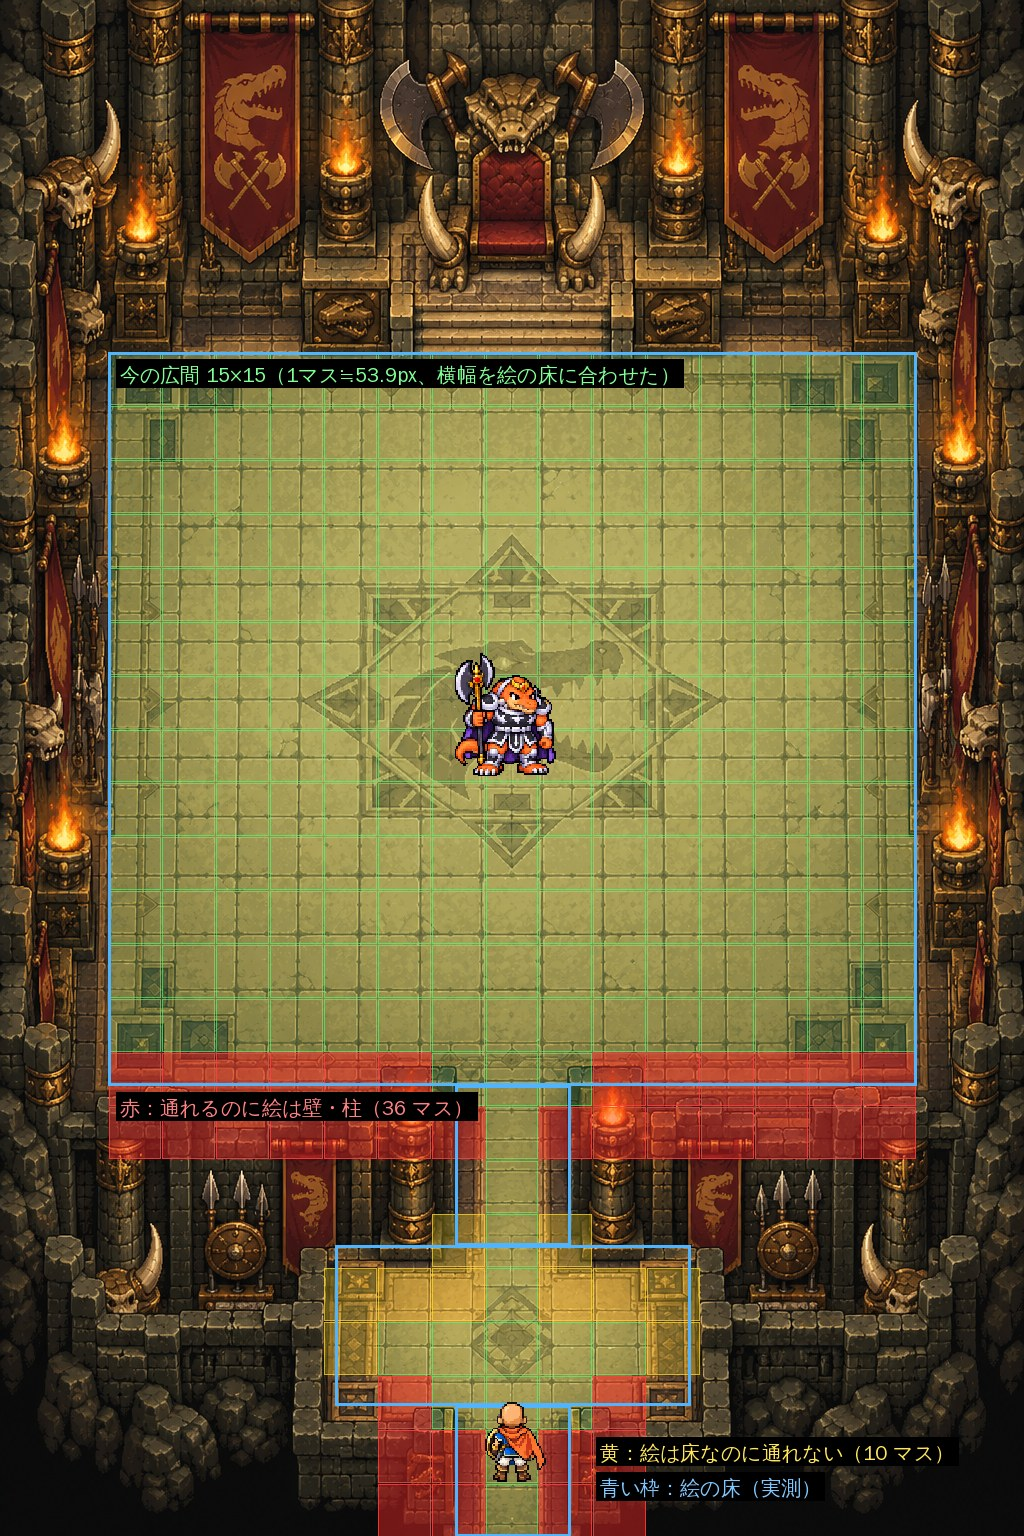
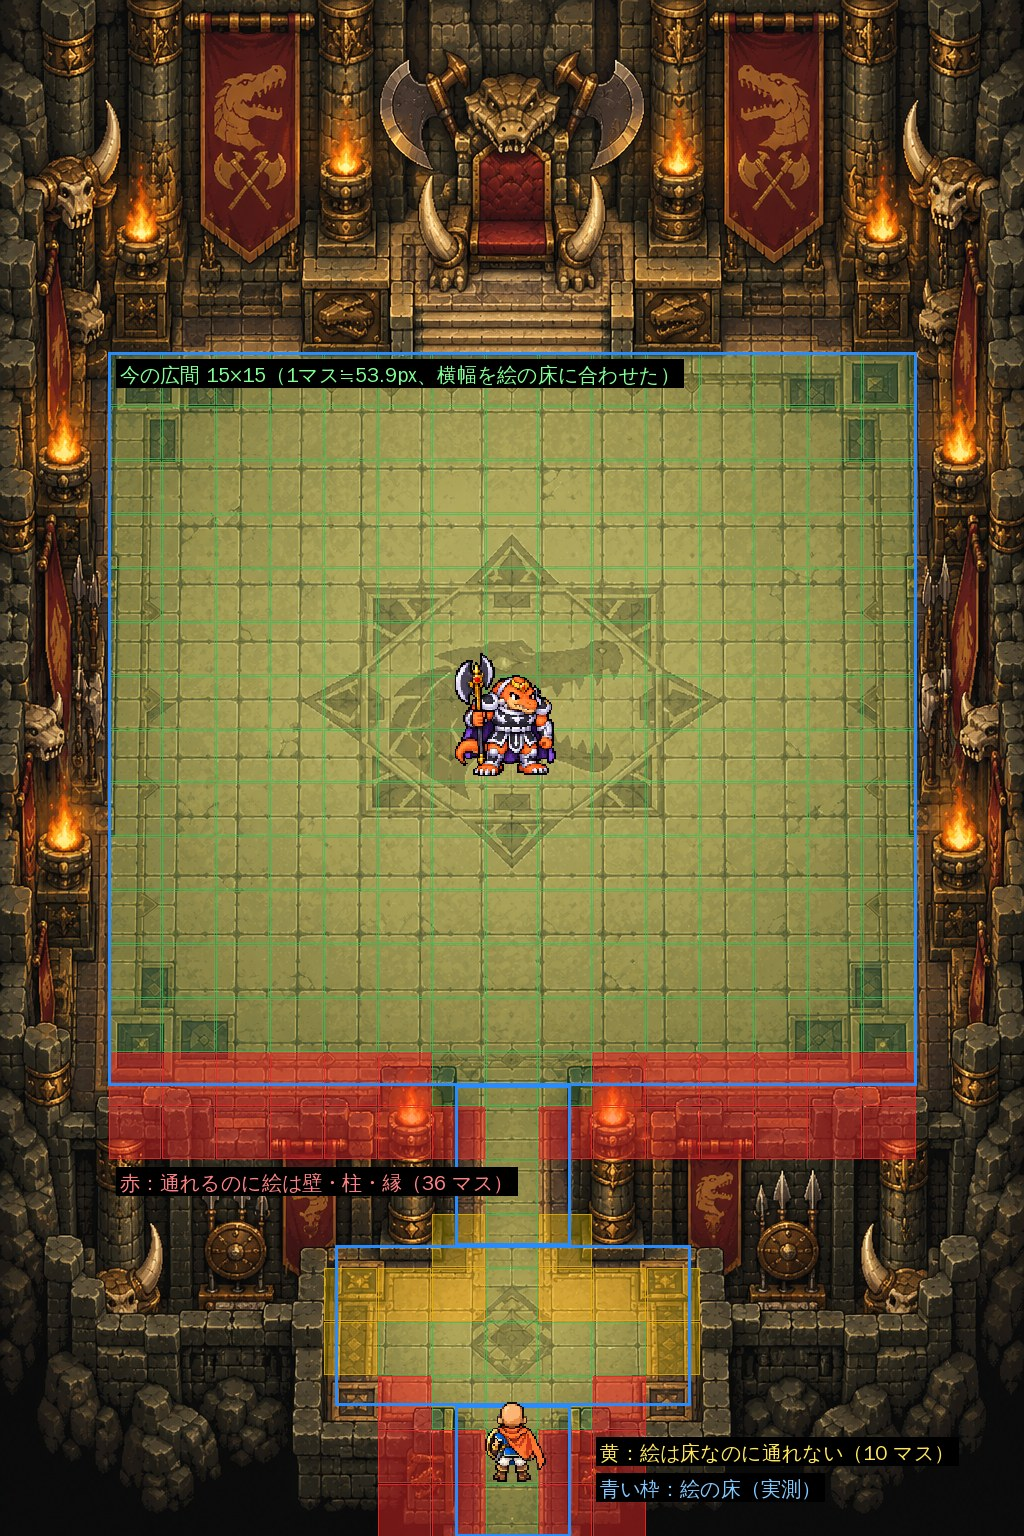
True Vearn room v1: overlay check (not integrated); keep white void after defeat
- tools/boss-room-fit.py (shared fit check for croc and truevearn rooms)
  replaces the crocodine-only tools; target dimensions for ChatGPT
- Boss room look is stored on the map (map.theme, G.themeOf) so the 33F
  white void no longer turns into the castle look right after the defeat
- Gold return circle gets a subtle dark-gold underlay on the white floor
- tools/truevearn-white-check.js, docs/TRUEVEARN_ROOM_V1.md

Claude-Session: https://claude.ai/code/session_01HDLigwwegm7F2trSGLBQuS

diff --git a/tools/truevearn-white-check.js b/tools/truevearn-white-check.js
@@ -1,0 +1,52 @@
+// 33階・真大魔王バーンの白い異空間：白い床の上で、攻撃の予告・たけとボス・撃破後の金の帰還魔法陣が見えるかの確認（PCのブラウザ、幅360・390・430）
+//   node tools/truevearn-white-check.js [出力フォルダ]（既定 docs/truevearn-room-v1/）。覚醒ムービーは見た扱い（着くと、下の入口の列で広間の下の端から3マス上）
+const { chromium } = (() => { try { return require('playwright'); } catch (e) { return require('/opt/node22/lib/node_modules/playwright'); } })();
+const http = require('http'), fs = require('fs'), path = require('path');
+const ROOT = path.join(__dirname, '..'), OUT = process.argv[2] || path.join(ROOT, 'docs', 'truevearn-room-v1');
+fs.mkdirSync(OUT, { recursive: true });
+const PORT = 8837;
+const srv = http.createServer((q, r) => { let f = path.join(ROOT, decodeURIComponent(q.url.split('?')[0])); if (f.endsWith('/')) f += 'index.html';
+  fs.readFile(f, (e, d) => { if (e) { r.writeHead(404); r.end(); return; } r.writeHead(200, { 'Content-Type': { '.html': 'text/html', '.js': 'text/javascript', '.css': 'text/css', '.png': 'image/png', '.webp': 'image/webp', '.jpg': 'image/jpeg' }[path.extname(f)] || 'application/octet-stream' }); r.end(d); }); }).listen(PORT);
+let ok = 0, ng = 0; const chk = (c, m) => { if (c) ok++; else ng++; console.log(c ? 'OK' : 'NG', m); };
+const closeAll = (p) => p.evaluate(() => { while (TS.UI.modals.length) TS.UI.modals[TS.UI.modals.length - 1].close(); TS.UI.lockUntil = 0; });
+(async () => {
+  const b = await chromium.launch();
+  for (const [W, H] of [[360, 780], [390, 844], [430, 932]]) {
+    const ctx = await b.newContext({ viewport: { width: W, height: H }, isMobile: true, hasTouch: true, deviceScaleFactor: 2 });
+    const p = await ctx.newPage(); const errs = []; p.on('pageerror', (e) => errs.push(e.message));
+    await p.route('**/*.mp4', (route) => route.fulfill({ status: 404, body: '' }));
+    await p.goto(`http://localhost:${PORT}/`); await p.waitForTimeout(400);
+    await p.evaluate(() => { localStorage.clear(); const G = TS.Game, S = G.newState(), V = S.village, st = V.story; st.introDone = true; V.seenIntro = true; st.chapter = 6;
+      for (const k of ['croc', 'flame', 'kill', 'baran', 'mist', 'vearn']) st.defeated[k] = true;
+      st.introSeen = { truevearn: true, truevearnAwaken: true };
+      G.depart(S, 6161); const r = S.run; r.final.skip.vearn = true;
+      while (r.floor < 33) { const t = r.stairs || r.crack; r.enemies = r.enemies.filter((e) => e.boss); r.player.x = t.x; r.player.y = t.y; G.act(S, { type: 'descend' }); }
+      r.player.hp = r.player.maxhp = 9999; r.player.lvl = 30; TS.Save.save(S); });
+    await p.reload(); await p.waitForTimeout(700); await p.tap('#btn-continue'); await p.waitForTimeout(900); await closeAll(p);
+    const a = await p.evaluate(() => { const r = TS.UI.S.run, A = r.bossFight; return { floor: r.floor, theme: TS.Game.F(r).theme, p: [r.player.x, r.player.y], A }; });
+    chk(a.floor === 33 && a.theme === 'void' && a.p[1] === a.A.y + a.A.h - 4 && a.p[0] === a.A.x + (a.A.w >> 1), `${W} 33階の白い異空間に着くと、広間の下の端から3マス上（下の入口の列） ${JSON.stringify(a)}`);
+    await p.screenshot({ path: path.join(OUT, `white-arrive_${W}.jpg`), quality: 85 });
+    // 戦闘中：ボスの前で、3×3の予告（見た目だけ。ターンは進めない）
+    await p.evaluate(() => { const r = TS.UI.S.run, A = r.bossFight, bo = r.enemies.find((e) => e.boss); A.engaged = true; A.intro = 'done';
+      bo.x = A.x + 7; bo.y = A.y + 6; bo.hold = 99; r.player.x = A.x + 7; r.player.y = A.y + 10; r.player.dir = 'up';
+      bo.charge = { tiles: [], kind: null }; for (let dy = -1; dy <= 1; dy++) for (let dx = -1; dx <= 1; dx++) bo.charge.tiles.push({ x: bo.x + dx, y: bo.y + 2 + dy });
+      TS.Game.updateVision(r); });
+    await p.waitForTimeout(600);
+    await p.screenshot({ path: path.join(OUT, `white-battle_${W}.jpg`), quality: 85 });
+    // 撃破：帰還口（金の魔法陣）
+    await p.evaluate(() => { const r = TS.UI.S.run, bo = r.enemies.find((e) => e.boss); bo.charge = null; bo.hp = 1; bo.hold = 0; bo.sleep = 50; r.player.x = bo.x; r.player.y = bo.y + 1; TS.Game.updateVision(r); });
+    for (let i = 0; i < 15 && await p.evaluate(() => TS.UI.S.run.enemies.some((e) => e.boss)); i++) { await p.evaluate(() => { while (TS.UI.modals.length) TS.UI.modals[TS.UI.modals.length - 1].close(); TS.UI.lockUntil = 0; TS.UI.doAct({ type: 'move', dir: 'up' }); }); await p.waitForTimeout(200); }
+    for (let i = 0; i < 40 && !(await p.evaluate(() => !!TS.UI.S.run.portal)); i++) { await p.waitForTimeout(150); await closeAll(p); }
+    for (let i = 0; i < 8; i++) { await p.waitForTimeout(150); await closeAll(p); }   // 撃破の会話
+    const th = await p.evaluate(() => TS.Game.themeOf(TS.UI.S.run));
+    chk(th === 'void', `${W} 倒したあとも白い異空間のまま（${th}）`);
+    const P = await p.evaluate(() => { const r = TS.UI.S.run, P = r.portal; if (P) { r.player.x = P.x - 1; r.player.y = P.y + 1; TS.Game.updateVision(r); } return P && TS.Game.inArena(r, P.x, P.y); });
+    await p.waitForTimeout(1200);
+    chk(P, `${W} 撃破後：帰還口は広間の床`);
+    await p.screenshot({ path: path.join(OUT, `white-portal_${W}.jpg`), quality: 85 });
+    chk(!errs.length, `${W} エラーなし ${errs.join(' / ')}`);
+    await ctx.close();
+  }
+  console.log(`\n${ok} OK / ${ng} NG`);
+  await b.close(); srv.close(); process.exit(ng ? 1 : 0);
+})();

diff --git a/js/render.js b/js/render.js
@@ -27,7 +27,15 @@
     if (img) {
       const h = w * img.height / img.width;
       g.imageSmoothingEnabled = true; g.imageSmoothingQuality = 'high';
+      // 白い床（33階・白い異空間）：魔法陣が床の金の模様にまぎれないよう、控えめな暗い金の下敷きの影と、少し濃い色で描く（形は変えない）
+      const white = G.themeOf(run) === 'void';
+      if (white) {
+        g.globalAlpha = 0.5 * ap; g.fillStyle = 'rgba(90,60,10,0.45)';
+        g.beginPath(); g.ellipse(cx, cy + h * 0.04, w * 0.5, h * 0.52, 0, 0, Math.PI * 2); g.fill();
+        g.filter = 'brightness(0.7) saturate(1.4)';
+      }
       g.globalAlpha = Math.min(1, alpha); g.drawImage(img, cx - w / 2, cy - h / 2, w, h);
+      g.filter = 'none';
       // 帰る演出：0〜0.25秒で明るく（金色を足す。白一色にはしない）、そのあとも明るいまま
       if (gt >= 0) { g.globalCompositeOperation = 'lighter'; g.globalAlpha = 0.55 * Math.min(1, gt / 0.25); g.drawImage(img, cx - w / 2, cy - h / 2, w, h); g.globalCompositeOperation = 'source-over'; }
       g.globalAlpha = 1; g.imageSmoothingEnabled = false;
@@ -138,7 +146,7 @@
     return false;
   }
   function paintTile(run, L, x, y) {
-    const theme = G.F(run).theme;
+    const theme = G.themeOf(run);
     const r = TS.Tiles.paint(run, L, x, y, theme);
     if (r.torch) L.torches.push({ x, y });
     if (r.water) L.water.push({ x, y });
@@ -278,7 +286,7 @@
   RD.drawDungeon = function (canvas, S, now) {
     const run = S.run;
     const { g, W, H, dpr } = fit(canvas);
-    const theme = G.F(run).theme;
+    const theme = G.themeOf(run);
     const TH = SP.themeColors[theme];
     g.fillStyle = TH.bg; g.fillRect(0, 0, W, H);
     // 1マスの大きさ：横9.5マス・縦7.5マス程度が見えるように。16px刻みにしてドットの乱れを抑える

diff --git a/js/game.js b/js/game.js
@@ -317,6 +317,9 @@
     run.hazards = []; run.fog = 0; run.sense = 0;   // 気配察知は階を移ると切れる
     run.player.half = 0;   // 2回行動の途中は、階を移ると数え直す
     run.map = gen.map;
+    // ボスの部屋の見た目（地域）は、作ったときのものを地図に残す。最終章のボスは倒すと階の定義からボスが外れ、地域が変わってしまうため
+    //（例：33階の白い異空間が、真大魔王バーンを倒した直後に魔王の城の見た目になっていた）。見た目だけで、判定には使わない
+    if (Fdef.boss) run.map.theme = Fdef.theme;
     run.stairs = gen.stairs;
     run.returnPoint = gen.returnPoint;
     run.crack = null;
@@ -1695,6 +1698,8 @@
   G.adjacent = adjacent;
 
   // ---------- ボス部屋 ----------
+  // 描くときの地域：地図に残した見た目（ボスの部屋）を優先。無ければ階の定義
+  G.themeOf = (run) => (run.map && run.map.theme) || G.F(run).theme;
   G.inArena = (run, x, y) => { const A = run && run.bossFight; return !!A && x >= A.x && x < A.x + A.w && y >= A.y && y < A.y + A.h; };
   // 部屋から出られない敵：ボス本人と、ボスが呼んだ敵・分身
   const confined = (run, e) => !!(run.bossFight && (e.boss || e.summoned));

diff --git a/tests/logic.test.js b/tests/logic.test.js
@@ -2811,6 +2811,9 @@ test('33階・真大魔王バーン：着いた直後の登場ムービーのと
   const A = r.bossFight, p = r.player, b = r.enemies.find((e) => e.boss);
   assert(res.events.some((e) => e.t === 'bossIntro'), 'arrival intro');
   eq(p.y, A.y + A.h - 4); eq(p.x, A.x + (A.w >> 1)); eq(p.dir, 'up'); eq(Math.abs(b.y - p.y), 4, 'four tiles to the boss');
+  // 倒したあとも部屋の見た目は白い異空間のまま（階の定義からボスが外れても、地図に残した見た目を使う）
+  eq(G.themeOf(r), 'void'); G.finishBossIntro(S); defeatBoss(S); eq(G.themeOf(r), 'void', 'still the white void after the defeat');
+  eq(G.themeOf(SV.deserialize(SV.serialize(S)).run), 'void', 'after reload');
 });
 test('通常バラン戦の部屋（D.BARAN_ROOM）：背景の絵どおり。広間15×17・下の通路3×6から入る・左の旧入口は壁・玉座の壇は壁・入室で1回だけ', () => {
   const B = D.BARAN_ROOM;

diff --git a/tools/boss-room-fit.py b/tools/boss-room-fit.py
@@ -1,0 +1,83 @@
+# ボス部屋の背景と、今のボスの階（共通の形）の通れるマスを照合する：python3 -I tools/boss-room-fit.py <croc|truevearn>
+# 画像は歪めない（縦横同じ倍率）。広間15×15の横幅を、絵の広間の床の横幅（実測）に合わせて1マスの大きさを決める。
+#  今の共通の形（js/dungeon.js generateBossFloor）：広間 x9〜23・y1〜15、通路 x16・y16〜18（1マス幅）、前室 x14〜18・y19〜22、入口 (16,21)、ボス (16,8)
+# 出力（docs/<部屋>-room-v1/）：
+#  overlay-current.jpg … 緑＝通れるマスが絵の床の上、赤＝通れるのに絵では壁・柱・縁・雲、黄＝絵では床なのに通れない。青い枠＝絵の床（実測）
+#  target-layout.jpg   … 今の倍率のまま今の地図に合わせるための、絵の目標の寸法（ChatGPT 向け）
+import os, sys
+from PIL import Image, ImageDraw, ImageFont
+ROOT = os.path.join(os.path.dirname(os.path.abspath(__file__)), '..')
+F = ImageFont.truetype('/usr/share/fonts/truetype/wqy/wqy-zenhei.ttc', 20)
+ROOMS = {
+  # クロコダイン（ZIP crocodine_room_v1、1024×1536）。床の実測：広間 x108〜916・y352〜1085、通路 x455〜570、前室 x335〜690・y1245〜1405、入口 y1405〜
+  'croc': dict(src='assets/reference/crocodine-room-v1/crocodine_room.png', out='docs/crocodine-room-v1', boss='assets/bosses/croc.png', top='玉座・壇・旗',
+               floor=[(108, 352, 916, 1085), (455, 1085, 570, 1245), (335, 1245, 690, 1405), (455, 1405, 570, 1536)]),
+  # 真大魔王バーン（ZIP truevearn_room_v1、1024×1536）。床の実測：広間 x120〜905・y385〜1035（遠近で下ほど少し広い台形）、通路 x455〜555、前室 x385〜640・y1210〜1390、入口 y1395〜
+  'truevearn': dict(src='assets/reference/truevearn-room-v1/truevearn_room.png', out='docs/truevearn-room-v1', boss='assets/bosses/truevearn.png', top='透明な玉座・壇',
+                    floor=[(120, 385, 905, 1035), (455, 1035, 555, 1210), (385, 1210, 640, 1390), (455, 1395, 555, 1536)]),
+}
+R = ROOMS[sys.argv[1]]
+SRC, OUT = os.path.join(ROOT, R['src']), os.path.join(ROOT, R['out']); os.makedirs(OUT, exist_ok=True)
+FLOOR = R['floor']; fx0, fy0, fx1, fy1 = FLOOR[0]
+T = (fx1 - fx0) / 15                  # 1マス
+X = lambda c: fx0 + (c - 9) * T       # マス(9,1)＝広間の左上を、絵の床の左上に
+Y = lambda r: fy0 + (r - 1) * T
+src = Image.open(SRC).convert('RGBA')
+def label(d, x, y, s, col):
+    w = d.textlength(s, font=F); d.rectangle([x - 4, y - 3, x + w + 4, y + 25], fill=(0, 0, 0, 215)); d.text((x, y), s, fill=col, font=F)
+
+# 1. 重ねた図
+def on_floor(x0, y0, x1, y1):
+    a = sum(max(0, min(x1, b[2]) - max(x0, b[0])) * max(0, min(y1, b[3]) - max(y0, b[1])) for b in FLOOR)
+    return a >= 0.7 * (x1 - x0) * (y1 - y0)
+pas = {(x, y) for y in range(1, 16) for x in range(9, 24)} | {(16, y) for y in range(16, 19)} | {(x, y) for y in range(19, 23) for x in range(14, 19)}
+img = src.copy(); ov = Image.new('RGBA', img.size, (0, 0, 0, 0)); d = ImageDraw.Draw(ov); bad = miss = 0
+for gy in range(-8, 30):
+    for gx in range(0, 33):
+        x0, y0 = X(gx), Y(gy); x1, y1 = x0 + T, y0 + T
+        if x1 < 0 or y1 < 0 or x0 > img.width or y0 > img.height: continue
+        p, f = (gx, gy) in pas, on_floor(x0, y0, x1, y1)
+        if p and f: d.rectangle([x0 + 1, y0 + 1, x1 - 1, y1 - 1], fill=(60, 220, 100, 45), outline=(40, 200, 90, 190))
+        elif p: d.rectangle([x0 + 1, y0 + 1, x1 - 1, y1 - 1], fill=(255, 40, 40, 110), outline=(230, 40, 40, 240)); bad += 1
+        elif f: d.rectangle([x0 + 1, y0 + 1, x1 - 1, y1 - 1], fill=(255, 210, 0, 80), outline=(230, 180, 0, 220)); miss += 1
+for b in FLOOR: d.rectangle(list(b), outline=(40, 140, 255, 255), width=3)
+img.alpha_composite(ov)
+k = T / 32
+boss = Image.open(os.path.join(ROOT, R['boss'])).convert('RGBA').resize((round(96 * k), round(96 * k)), Image.NEAREST)
+take = Image.open(os.path.join(ROOT, 'assets/chars/take_back.png')).convert('RGBA').resize((round(52 * k), round(64 * k)), Image.NEAREST)
+img.alpha_composite(boss, (round(X(16) + T / 2 - boss.width / 2), round(Y(9) - boss.height)))
+img.alpha_composite(take, (round(X(16) + T / 2 - take.width / 2), round(Y(22) - k - 62 * k)))
+dd = ImageDraw.Draw(img)
+label(dd, fx0 + 12, fy0 + 10, '今の広間 15×15（1マス≒%.1fpx、横幅を絵の床に合わせた）' % T, (130, 255, 150))
+label(dd, fx0 + 12, Y(16) + 10, '赤：通れるのに絵は壁・柱・縁（%d マス）' % bad, (255, 130, 130))
+label(dd, 600, img.height - 96, '黄：絵は床なのに通れない（%d マス）' % miss, (255, 230, 90))
+label(dd, 600, img.height - 60, '青い枠：絵の床（実測）', (130, 200, 255))
+img.convert('RGB').save(os.path.join(OUT, 'overlay-current.jpg'), quality=88)
+
+# 2. 目標の寸法（今の倍率・上の部分はそのまま、今の地図に合わせる）
+H = int(Y(24)) + 10
+tg = Image.new('RGBA', (src.width, max(H, src.height)), (20, 18, 16, 255)); tg.alpha_composite(src.crop((0, 0, src.width, fy0)), (0, 0))
+s2 = src.copy(); s2.putalpha(90); tg.alpha_composite(s2.crop((0, fy0, src.width, src.height)), (0, fy0))
+ov = Image.new('RGBA', tg.size, (0, 0, 0, 0)); d = ImageDraw.Draw(ov)
+def box(c0, r0, c1, r1, col):
+    x0, y0, x1, y1 = X(c0), Y(r0), X(c1 + 1), Y(r1 + 1)
+    d.rectangle([x0, y0, x1, y1], outline=col + (255,), width=4, fill=col + (60,))
+    for c in range(c0, c1 + 2): d.line([(X(c), y0), (X(c), y1)], fill=col + (110,))
+    for r in range(r0, r1 + 2): d.line([(x0, Y(r)), (x1, Y(r))], fill=col + (110,))
+box(9, 1, 23, 15, (90, 255, 130)); box(16, 16, 16, 18, (90, 200, 255)); box(14, 19, 18, 22, (90, 200, 255))
+d.rectangle([X(16), Y(21), X(17), Y(22)], outline=(255, 230, 60, 255), width=5)
+tg.alpha_composite(ov); d = ImageDraw.Draw(tg)
+r0 = lambda v: int(round(v))
+xy = lambda b: (b[0], b[2], b[1], b[3])   # (x0,y0,x1,y1) → 文字の順（x0,x1,y0,y1）
+spec = {
+  'arena': (r0(X(9)), r0(Y(1)), r0(X(24)), r0(Y(16))), 'corr': (r0(X(16)), r0(Y(16)), r0(X(17)), r0(Y(19))),
+  'ante': (r0(X(14)), r0(Y(19)), r0(X(19)), r0(Y(23))), 'start': (r0(X(16)), r0(Y(21)), r0(X(17)), r0(Y(22))), 'bottom': (r0(Y(23)), r0(Y(24))),
+}
+label(d, 20, fy0 - 40, '上（y0〜%d：%s）は今の絵のまま' % (fy0, R['top']), (255, 230, 160))
+label(d, spec['arena'][0] + 8, spec['arena'][1] + 8, '広間 15×15：x%d〜%d・y%d〜%d' % xy(spec['arena']), (130, 255, 150))
+label(d, spec['corr'][2] + 12, spec['corr'][1] + 10, '通路 1マス幅×3：x%d〜%d・y%d〜%d' % xy(spec['corr']), (130, 210, 255))
+label(d, spec['ante'][0] + 4, spec['ante'][1] + 6, '前室 5×4：x%d〜%d・y%d〜%d' % xy(spec['ante']), (130, 210, 255))
+label(d, spec['start'][2] + 12, spec['start'][1] + 12, '入口（たけ）：x%d〜%d・y%d〜%d' % xy(spec['start']), (255, 230, 90))
+label(d, 20, spec['bottom'][0] + 8, 'いちばん下の壁 y%d〜%d。画像は %d×%d 以上' % (spec['bottom'] + (src.width, (spec['bottom'][1] + 9) // 10 * 10)), (255, 160, 160))
+tg.convert('RGB').save(os.path.join(OUT, 'target-layout.jpg'), quality=88)
+print(sys.argv[1], 'tile %.2f' % T, 'red', bad, 'yellow', miss, spec)

diff --git a/docs/TRUEVEARN_ROOM_V1.md b/docs/TRUEVEARN_ROOM_V1.md
@@ -1,0 +1,54 @@
+# 真大魔王バーンの部屋（ZIP truevearn_room_v1）：照合の結果（背景の組み込みは保留）
+
+## 結論
+背景（1024×1536）を縦横同じ倍率で今のボスの階（広間15×15・通路3マス・前室5×4）に重ねると、合いません。
+README の指示どおり、画像は歪めず、背景はまだ組み込んでいません（33階は今までどおりコードで描く白い異空間）。ChatGPT で直すための寸法を下にまとめました。
+あわせて、白い床の見え方のために描き方を2つ直しました（下の「実装したこと」）。
+
+- 元の素材：`assets/reference/truevearn-room-v1/`
+- 重ねた図・目標の寸法の図：`python3 -I tools/boss-room-fit.py truevearn` → `docs/truevearn-room-v1/overlay-current.jpg`・`target-layout.jpg`
+- 白い床での見え方（新しい背景に重ねた見本）：`docs/truevearn-room-v1/visibility-preview.jpg`
+
+## 絵の実測（通れそうに見える床）
+| 場所 | 絵の座標（px） | 大きさ |
+|---|---|---|
+| 広間の床 | x120〜905・y385〜1035 | 785×650（縦横比 0.83。遠近で下ほど少し広い台形） |
+| 通路 | x455〜555・y1035〜1210 | 幅100（約1.9マス） |
+| 前室 | x385〜640・y1210〜1390 | 255×180（約4.9×3.4マス） |
+| 入口 | x455〜555・y1395〜1536 | |
+
+## 重ねた結果（1マス＝785/15≒52.3px。横幅を絵の床に合わせた）
+- 広間の下の約2.6行が、絵の下の縁・柱・雲にかかる（通れるのに絵は縁）。
+- 通路・前室・入口が、絵より約2.6行下にずれる。
+- 通れるのに絵では縁・雲のマス：53、絵では床なのに通れないマス：8。
+- 縦（650px）を15行に合わせると1マス≒43px になり、広間の左右に約1.2マスずつ「見えているのに通れない床」が残る。
+
+## ChatGPT への依頼（今の絵の倍率・上の部分はそのまま）
+1マス＝52.33px（785/15）、広間の左上＝(120,385)。今のボスの階の地図にそのまま合う寸法です。
+| 場所 | マス | 絵の座標（px） |
+|---|---|---|
+| 上の透明な玉座・壇 | — | y0〜385（今の絵のまま） |
+| 広間（戦う床） | 15×15 | x120〜905・**y385〜1170**（今より床を下へ約135px のばす） |
+| 通路 | 1マス幅×3マス | x486〜539・y1170〜1327 |
+| 前室 | 5×4 | x382〜643・y1327〜1536 |
+| 入口（たけが立つ所） | 前室の中 (16,21) | x486〜539・y1432〜1484 |
+| いちばん下の縁 | 1行 | y1536〜1589 |
+- 画像の大きさ：**1024×1590 以上**（下は雲で埋める）。
+- 広間の床は、遠近の台形ではなく**長方形**に（左右の縁がまっすぐ。台形だとマスと縁がずれる）。
+- 通路は1マス幅（52px）。今の絵（約100px）は1マスでも3マスでもない。
+- 中央の金の模様は飾りのまま（帰還口や判定は割り当てない）。
+
+## 実装したこと（背景とは別。今の33階にも効く）
+- **倒したあとも白い異空間のまま**：真大魔王バーンを倒すと、階の定義からボスが外れて、部屋の見た目が魔王の城（暗い床・赤い絨毯）に変わっていました。
+  ボスの部屋の見た目を、作ったときに地図へ残すようにしました（`run.map.theme`、`G.themeOf`）。見た目だけで、判定・進行は変えていません。今までのセーブの階は今までどおり。
+- **白い床の上の金の帰還魔法陣**：白い異空間のときだけ、控えめな暗い金の下敷きの影を足し、少し濃い色で描きます（形・大きさ・動きは同じ）。
+- **攻撃の予告**：白い異空間では、もとから濃い赤と暗い縁で描いています（変更なし）。
+
+## 確認したこと（`node tools/truevearn-white-check.js`、幅360・390・430、12項目すべて OK）
+- 33階に着くと、下の入口の列で広間の下の端から3マス上（今の決まりどおり）。
+- 戦闘中の3×3の予告・たけ・ボスが白い床の上で見える（`white-battle_*.jpg`）。
+- 倒したあとも白い異空間のまま。帰還口（金の魔法陣）は広間の床で、白い床の上でも見える（`white-portal_*.jpg`）。
+- 到着時：`white-arrive_*.jpg`。
+
+## 変えていないこと
+- ボスの能力・技・射程・報酬・階（33階）・ルート・祈りの回復・覚醒ムービー（暗転→ムービー→復帰）・クリア条件・30階の亀裂の行き先。

diff --git a/docs/CROCODINE_ROOM_V1.md b/docs/CROCODINE_ROOM_V1.md
@@ -5,8 +5,8 @@
 README の指示どおり、画像は歪めず、ゲームにも組み込んでいません（クロコダインの部屋は今までどおり）。ChatGPT で直すための寸法を下にまとめました。
 
 - 元の素材：`assets/reference/crocodine-room-v1/`
-- 重ねた図：`docs/crocodine-room-v1/overlay-current.jpg`（`python3 -I tools/crocodine-room-overlay.py`）
-- 目標の寸法の図：`docs/crocodine-room-v1/target-layout.jpg`（`python3 -I tools/crocodine-room-target.py`）
+- 重ねた図：`docs/crocodine-room-v1/overlay-current.jpg`（`python3 -I tools/boss-room-fit.py croc`）
+- 目標の寸法の図：`docs/crocodine-room-v1/target-layout.jpg`（`python3 -I tools/boss-room-fit.py croc`）
 
 ## 絵の実測（通れそうに見える床）
 | 場所 | 絵の座標（px） | 大きさ |
